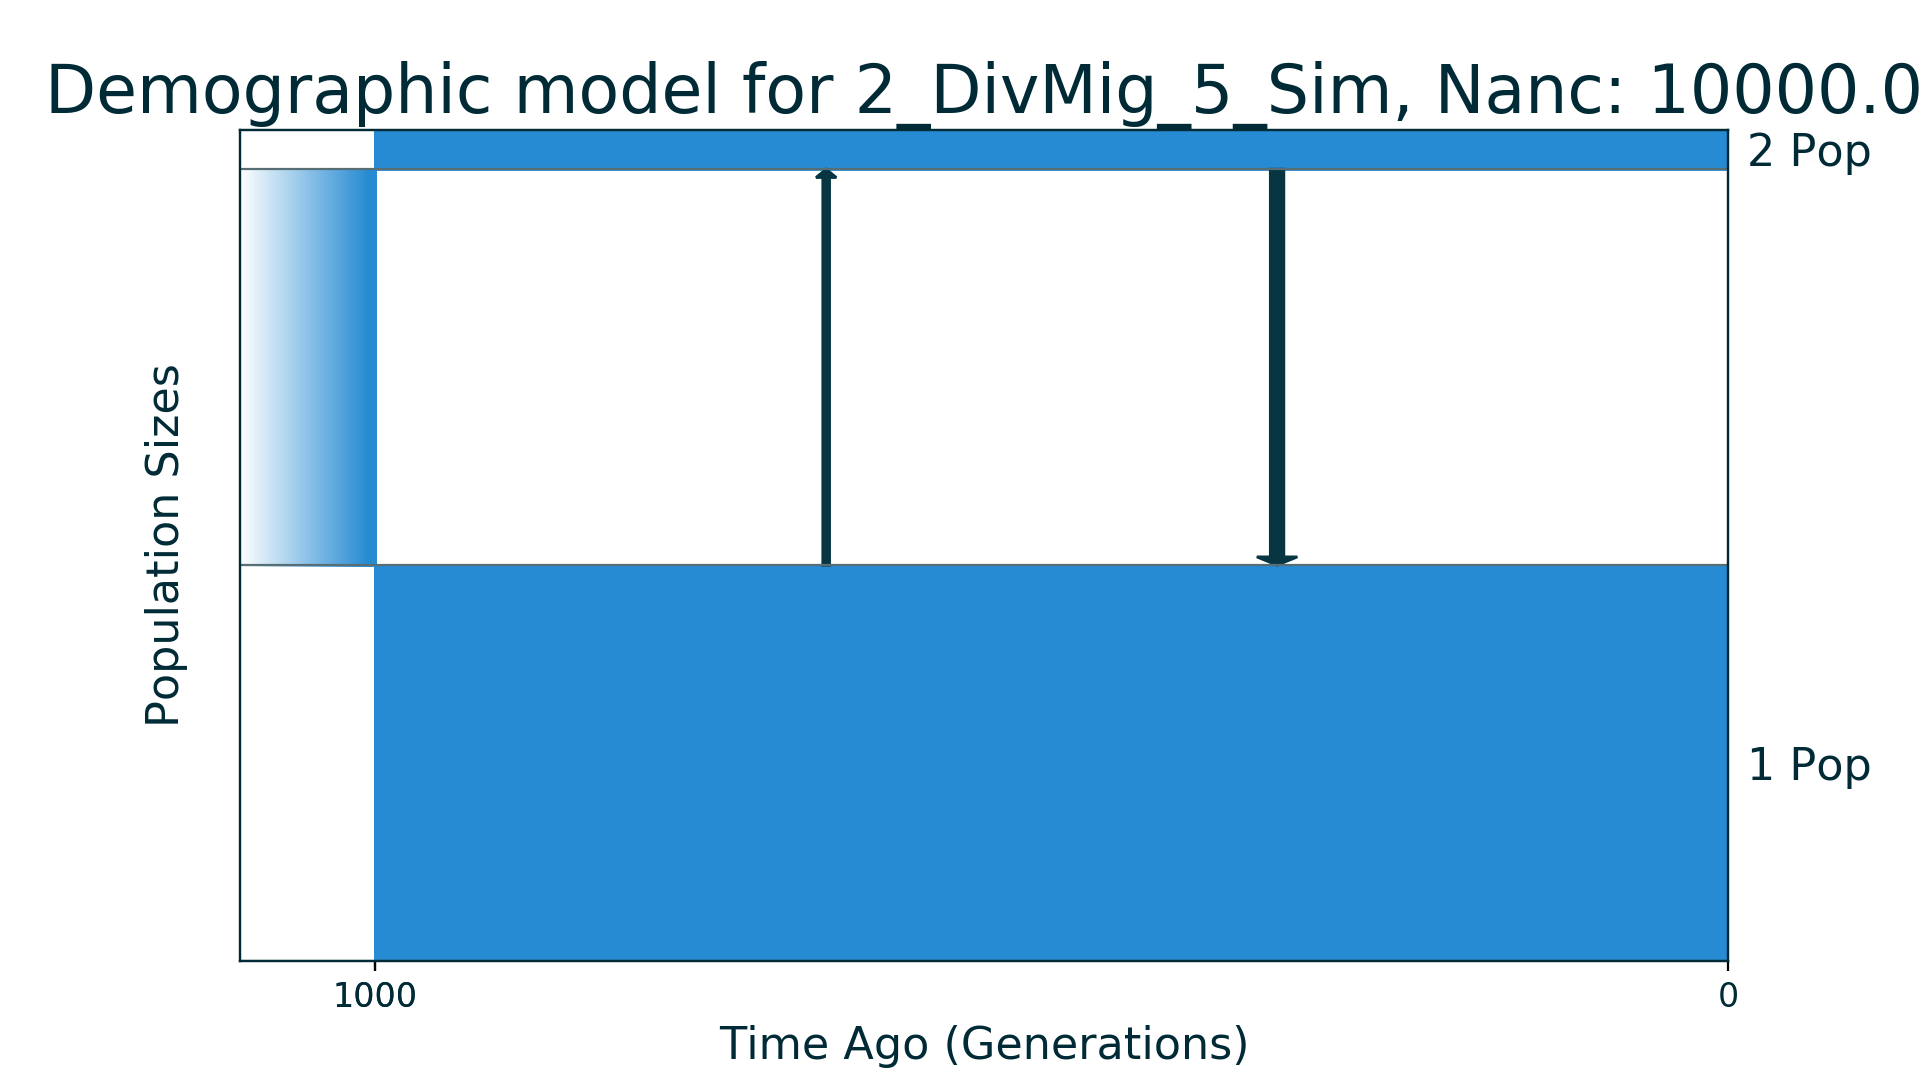
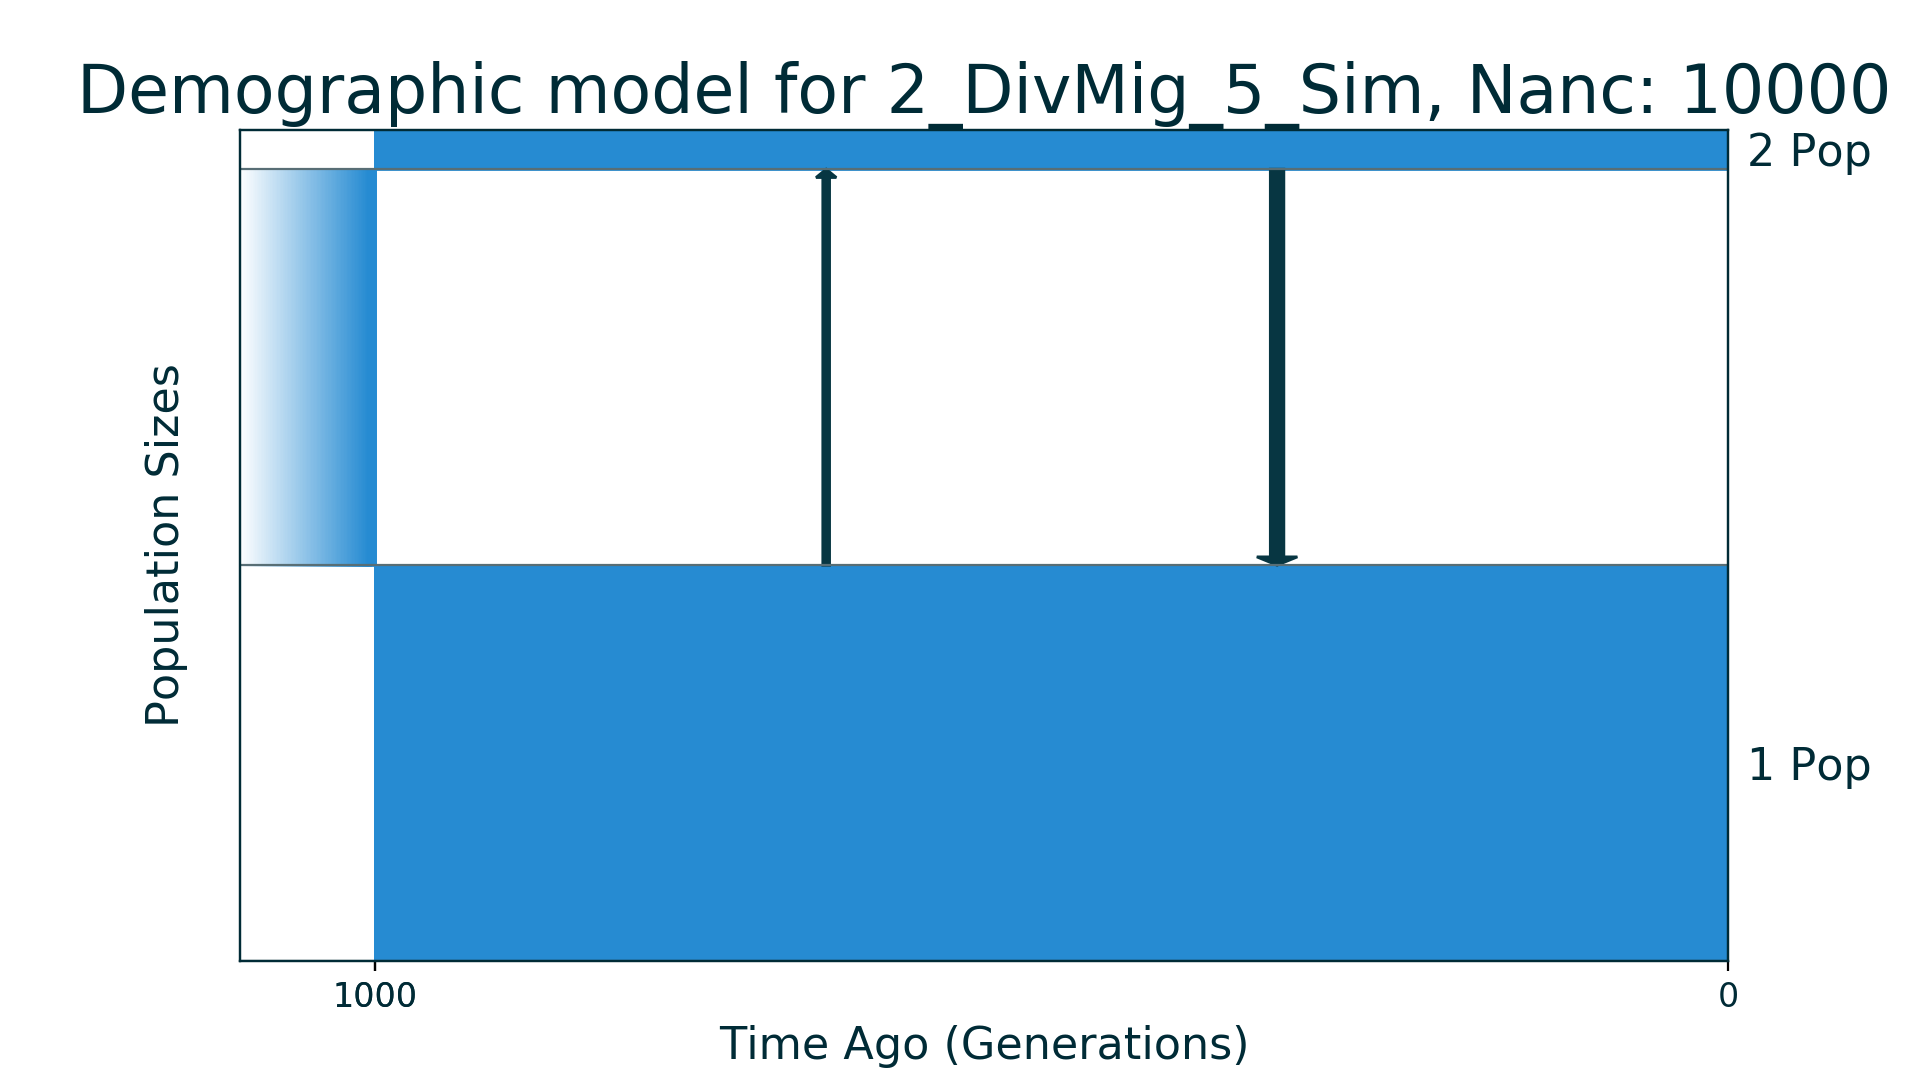
fix title of model plots and add max_ll to variables in readme

Changed region(s): [[0.0, 0.0611, 1.0, 0.1222]]

diff --git a/generate_readme.py b/generate_readme.py
@@ -60,6 +60,7 @@ information about data:
 | --- | --- |
 | `n_pop` | Number of populations |
 | `par_labels` | Labels of model parameters |
+| `max_ll` | Maximum log composite likelihood |
 | `popt` | Optimal values parameters |
 | `Nanc` | Size of ancestral population |
 | `lower_bound` | Lower bound for parameters |

diff --git a/2_DivMig_5_Sim/main_script.py b/2_DivMig_5_Sim/main_script.py
@@ -31,7 +31,7 @@ if __name__ == "__main__":
     print('Optimal value of theta: {0}'.format(theta))
 
     theta0 = 4 * mu * L
-    Nanc = theta / theta0
+    Nanc = int(theta / theta0)
     print('Size of the ancestral population: {0}'.format(Nanc))
 
     # Draw model

diff --git a/3_DivMig_8_Sim/main_script.py b/3_DivMig_8_Sim/main_script.py
@@ -32,7 +32,7 @@ if __name__ == "__main__":
     print('Optimal value of theta: {0}'.format(theta))
 
     theta0 = 4 * mu * L
-    Nanc = theta / theta0
+    Nanc = int(theta / theta0)
     print('Size of the ancestral population: {0}'.format(Nanc))
 
     # Draw model

diff --git a/4_DivMig_11_Sim/main_script.py b/4_DivMig_11_Sim/main_script.py
@@ -32,7 +32,7 @@ if __name__ == "__main__":
     print('Optimal value of theta: {0}'.format(theta))
 
     theta0 = 4 * mu * L
-    Nanc = theta / theta0
+    Nanc = int(theta / theta0)
     print('Size of the ancestral population: {0}'.format(Nanc))
 
     # Draw model

diff --git a/README.md b/README.md
@@ -52,6 +52,7 @@ information about data:
 | --- | --- |
 | `n_pop` | Number of populations |
 | `par_labels` | Labels of model parameters |
+| `max_ll` | Maximum log composite likelihood |
 | `popt` | Optimal values parameters |
 | `Nanc` | Size of ancestral population |
 | `lower_bound` | Lower bound for parameters |
